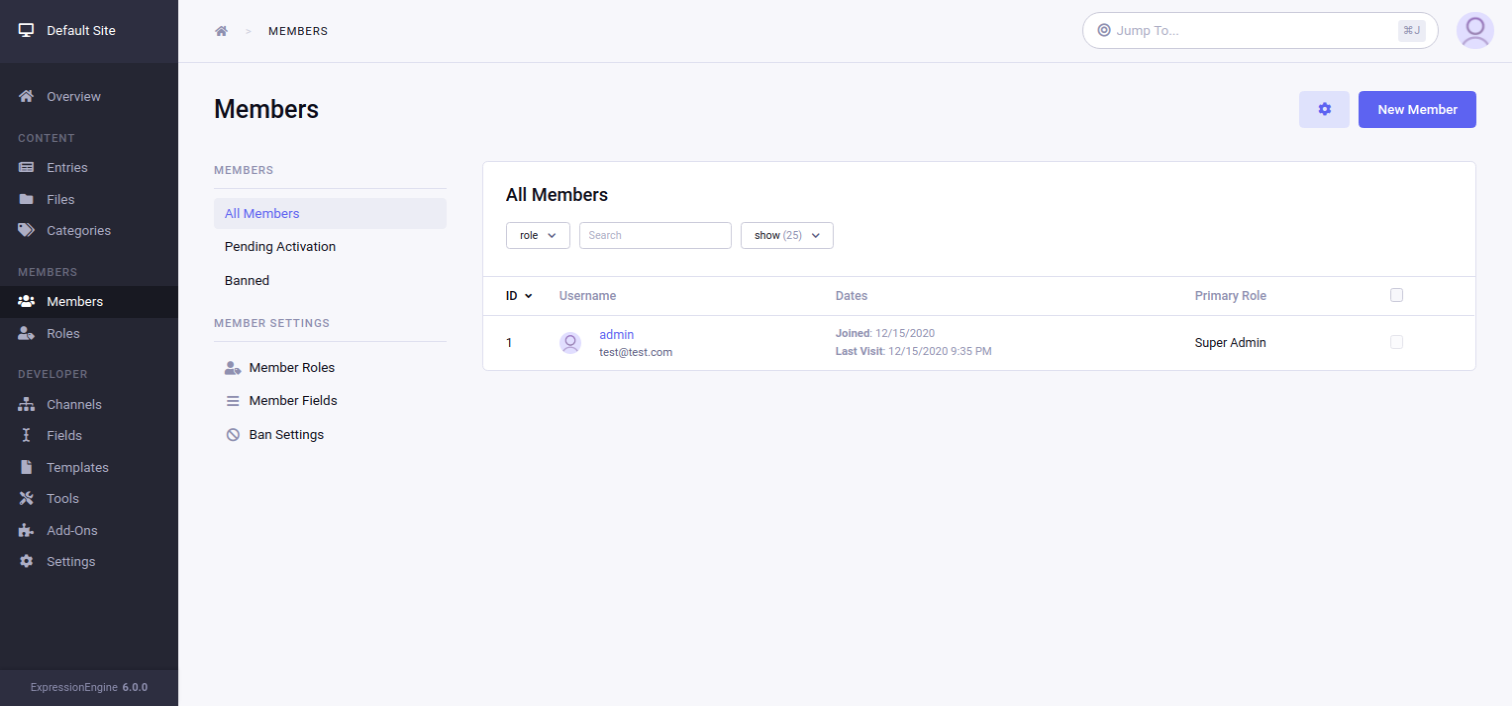
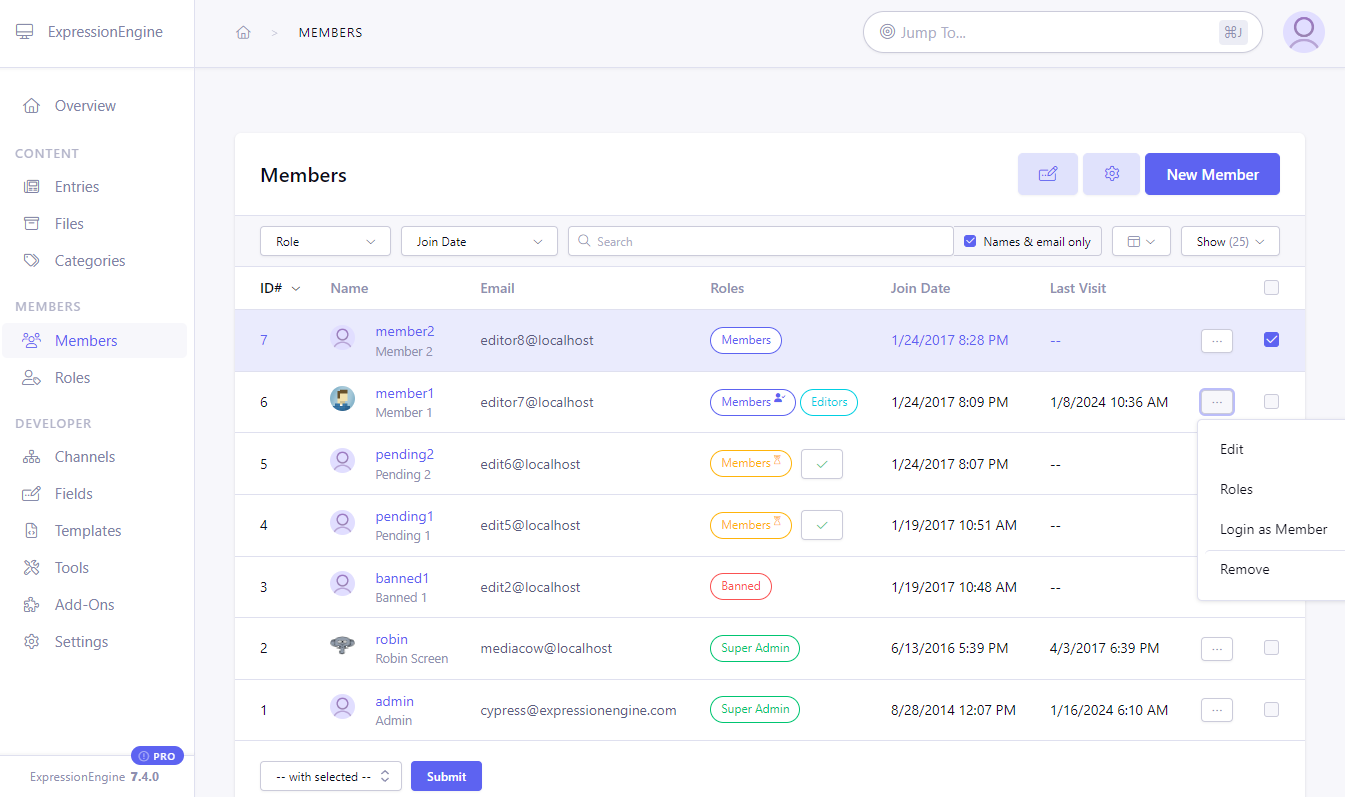
add some info on member manager

diff --git a/docs/control-panel/member-manager.md b/docs/control-panel/member-manager.md
@@ -9,19 +9,25 @@
 
 # Member Manager
 
+[TOC=2-3]
+
+## Members Listing
+
 **Control Panel Location: `Members`**
 
-This page is used both to search and to browse through active members within your ExpressionEngine installation. Also, you can filter the members by member role and search members.
-
-This page also allows you to do the following:
-
-[TOC=2-3]
+This page is used both to search and to browse through members within your ExpressionEngine installation.
 
 ![Member Manager Control Panel Page](_images/cp-members.png)
 
+Filters and search input can be used to narrow down the list of members displayed. 
+
+The set of columns displayed can be customized using "Columns" dropdown. By default, the following columns are shown: Member ID, Name (which is composed out of avatar, username and screen name), Email, Roles, Join Date,Last Visit Date. Also each member row has "Actions" buttons that contains links to some common actions and a checkbox that allows performing bulk actions on selected members. When "Pending" is selected in Role filter, the options in bulk action dropdown are "Approve" and "Decline", otherwise "Remove" is the only option.
+
+In the Roles column all roles assigned to member are shown. When multiple roles are assigned, the primary role wouild have an indicator. If the member is pending, the columns does not say "Pending", but instead shows the role to which the member would be assigned once approved (with pending indicator) and a button to approve.
+
 ## Member Roles
 
-**Control Panel Location: `Members > Member Roles`**
+**Control Panel Location: `Members > Roles`**
 
 The _Member Roles_ area of the Control Panel permits you to manage your Member Roles. The member roles can be sorted by ID, Role Name, and Status.
 
@@ -31,7 +37,7 @@ You can assign multiple roles to a member.
 
 ### Create/Edit All Member Roles
 
-**Control Panel Location: `Members > Member Roles > Create/Edit`**
+**Control Panel Location: `Members > Roles > Create/Edit`**
 
 This sections allows you to set the various permissions and settings for the selected Member Role.
 
@@ -50,13 +56,15 @@ Edit the role by clicking its name in the list.
 
 ## Custom Member Fields
 
-**Control Panel Location: `Members > Member Fields`**
+**Control Panel Location: `Settings > Members > Member Fields`**
+
+The link to this section is also found on top of Member Listing page.
 
 The _Member Fields_ feature permits you to add fields to the member registration form and/or member profile and My Account areas.
 
 ### Create/Edit
 
-**Control Panel Location: `Members > Member Fields > New/Edit`**
+**Control Panel Location: `Settings > Members > Member Fields > New/Edit`**
 
 This section allows you to create or edit Member Fields.
 
@@ -112,7 +120,7 @@ This section has the following options:
 
 ## Ban Settings
 
-**Control Panel Location: `Members sidebar > Ban Settings`**
+**Control Panel Location: `Settings > Members > Ban Settings`**
 
 The User Banning section of the Control Panel allows you to ban users by IP address, email, or name.
 
